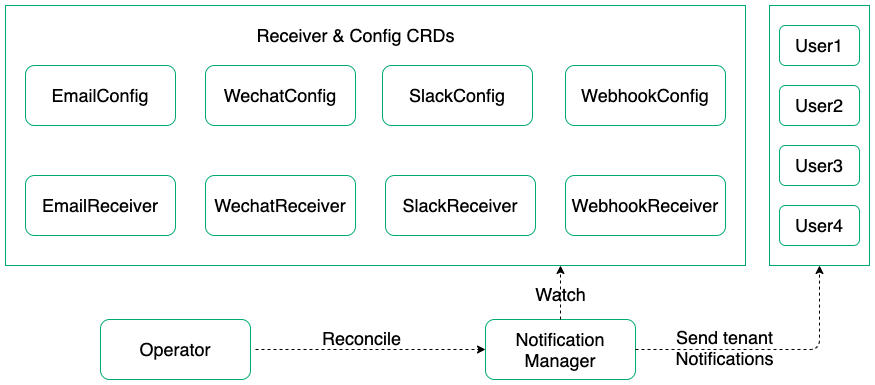
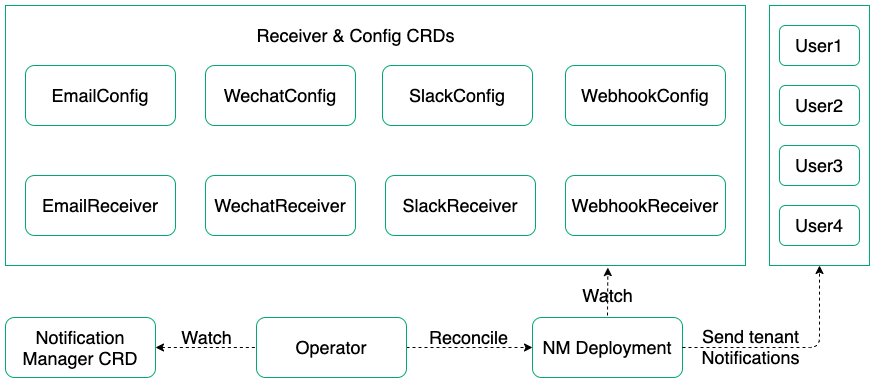
Add more arch graphs

diff --git a/README.md b/README.md
@@ -33,6 +33,10 @@ Notification Manager uses the following CRDs to define the desired alerts/notifi
 - WebhookConfig: Define the webhook Url, HttpConfig.
 - WebhookReceiver: Define the WebhookConfig selector.
 
+The relationship between receivers and configs can be demostrated as below:
+
+![Receivers & Configs](docs/images/receivers_configs.png)
+
 Receiver CRDs like EmailReceiver, WechatReceiver, SlackReceiver and WebhookReceiver can be categorized into 2 types `global` and `tenant` by label like `type = global`, `type = tenant` :
 - A global EmailReceiver receives all alerts and then send notifications regardless tenant info(user or namespace).
 - A tenant EmailReceiver receives alerts with specified tenant label like `user` or `namespace` 
